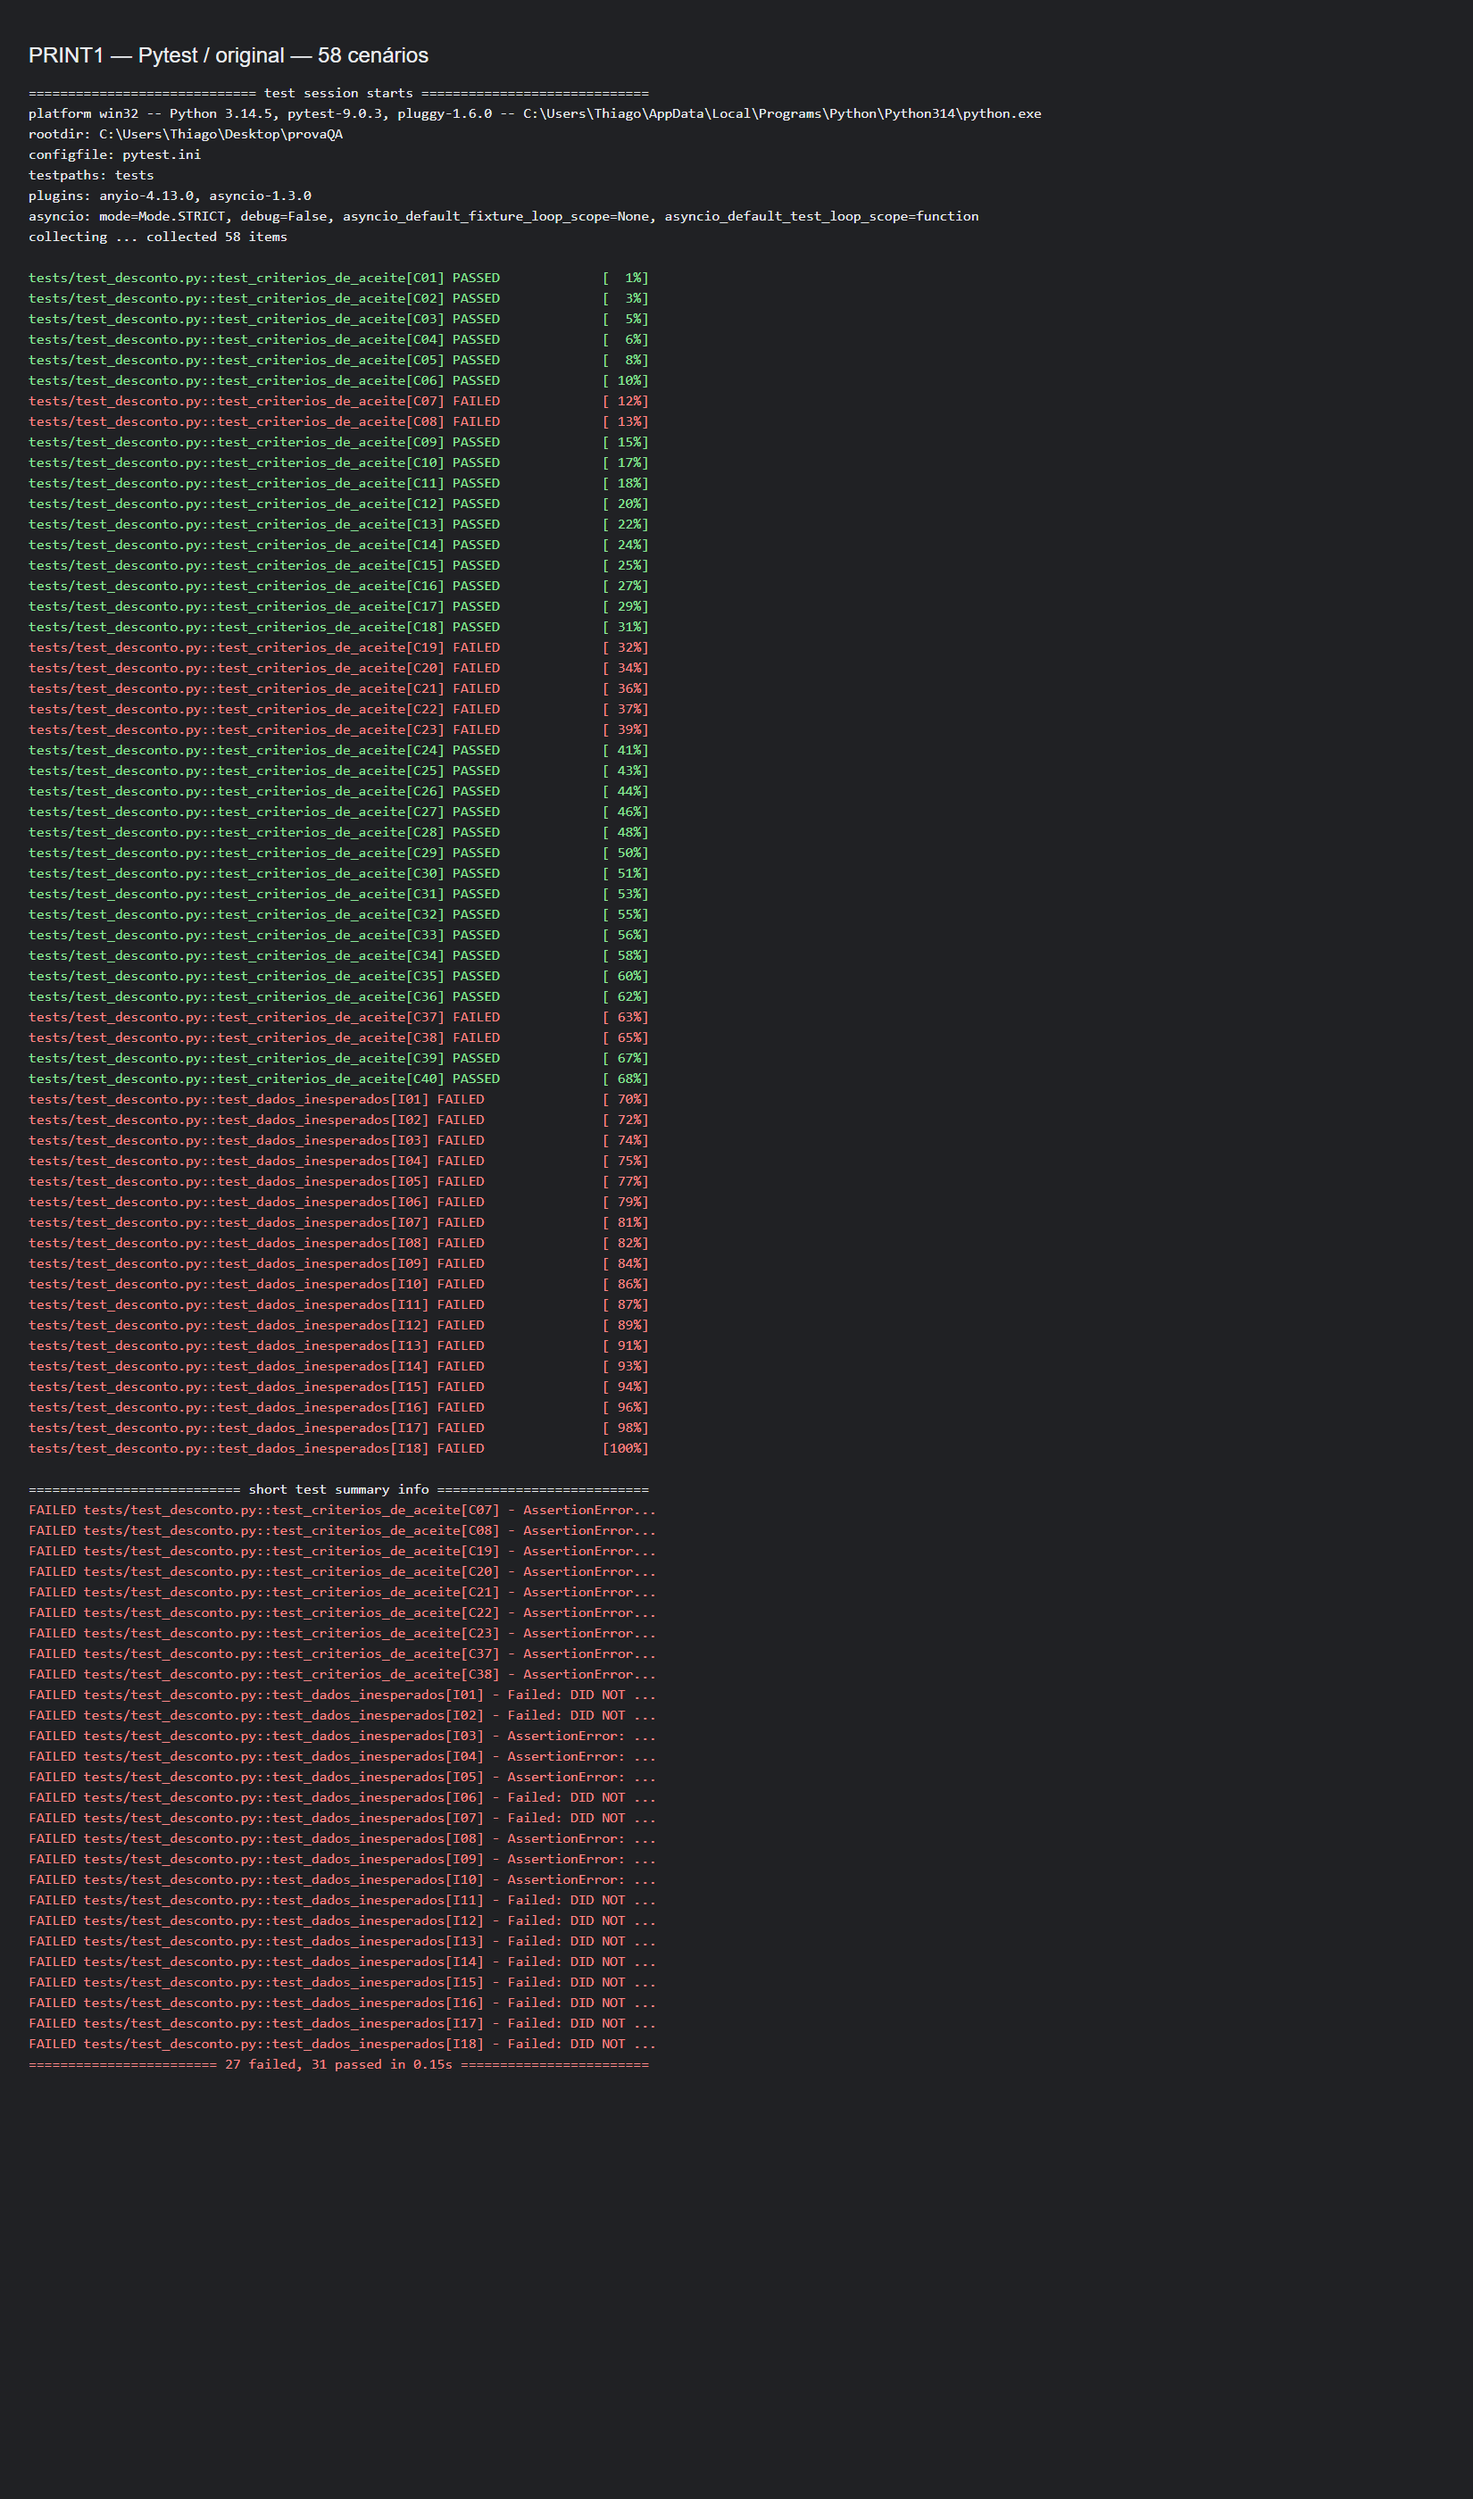
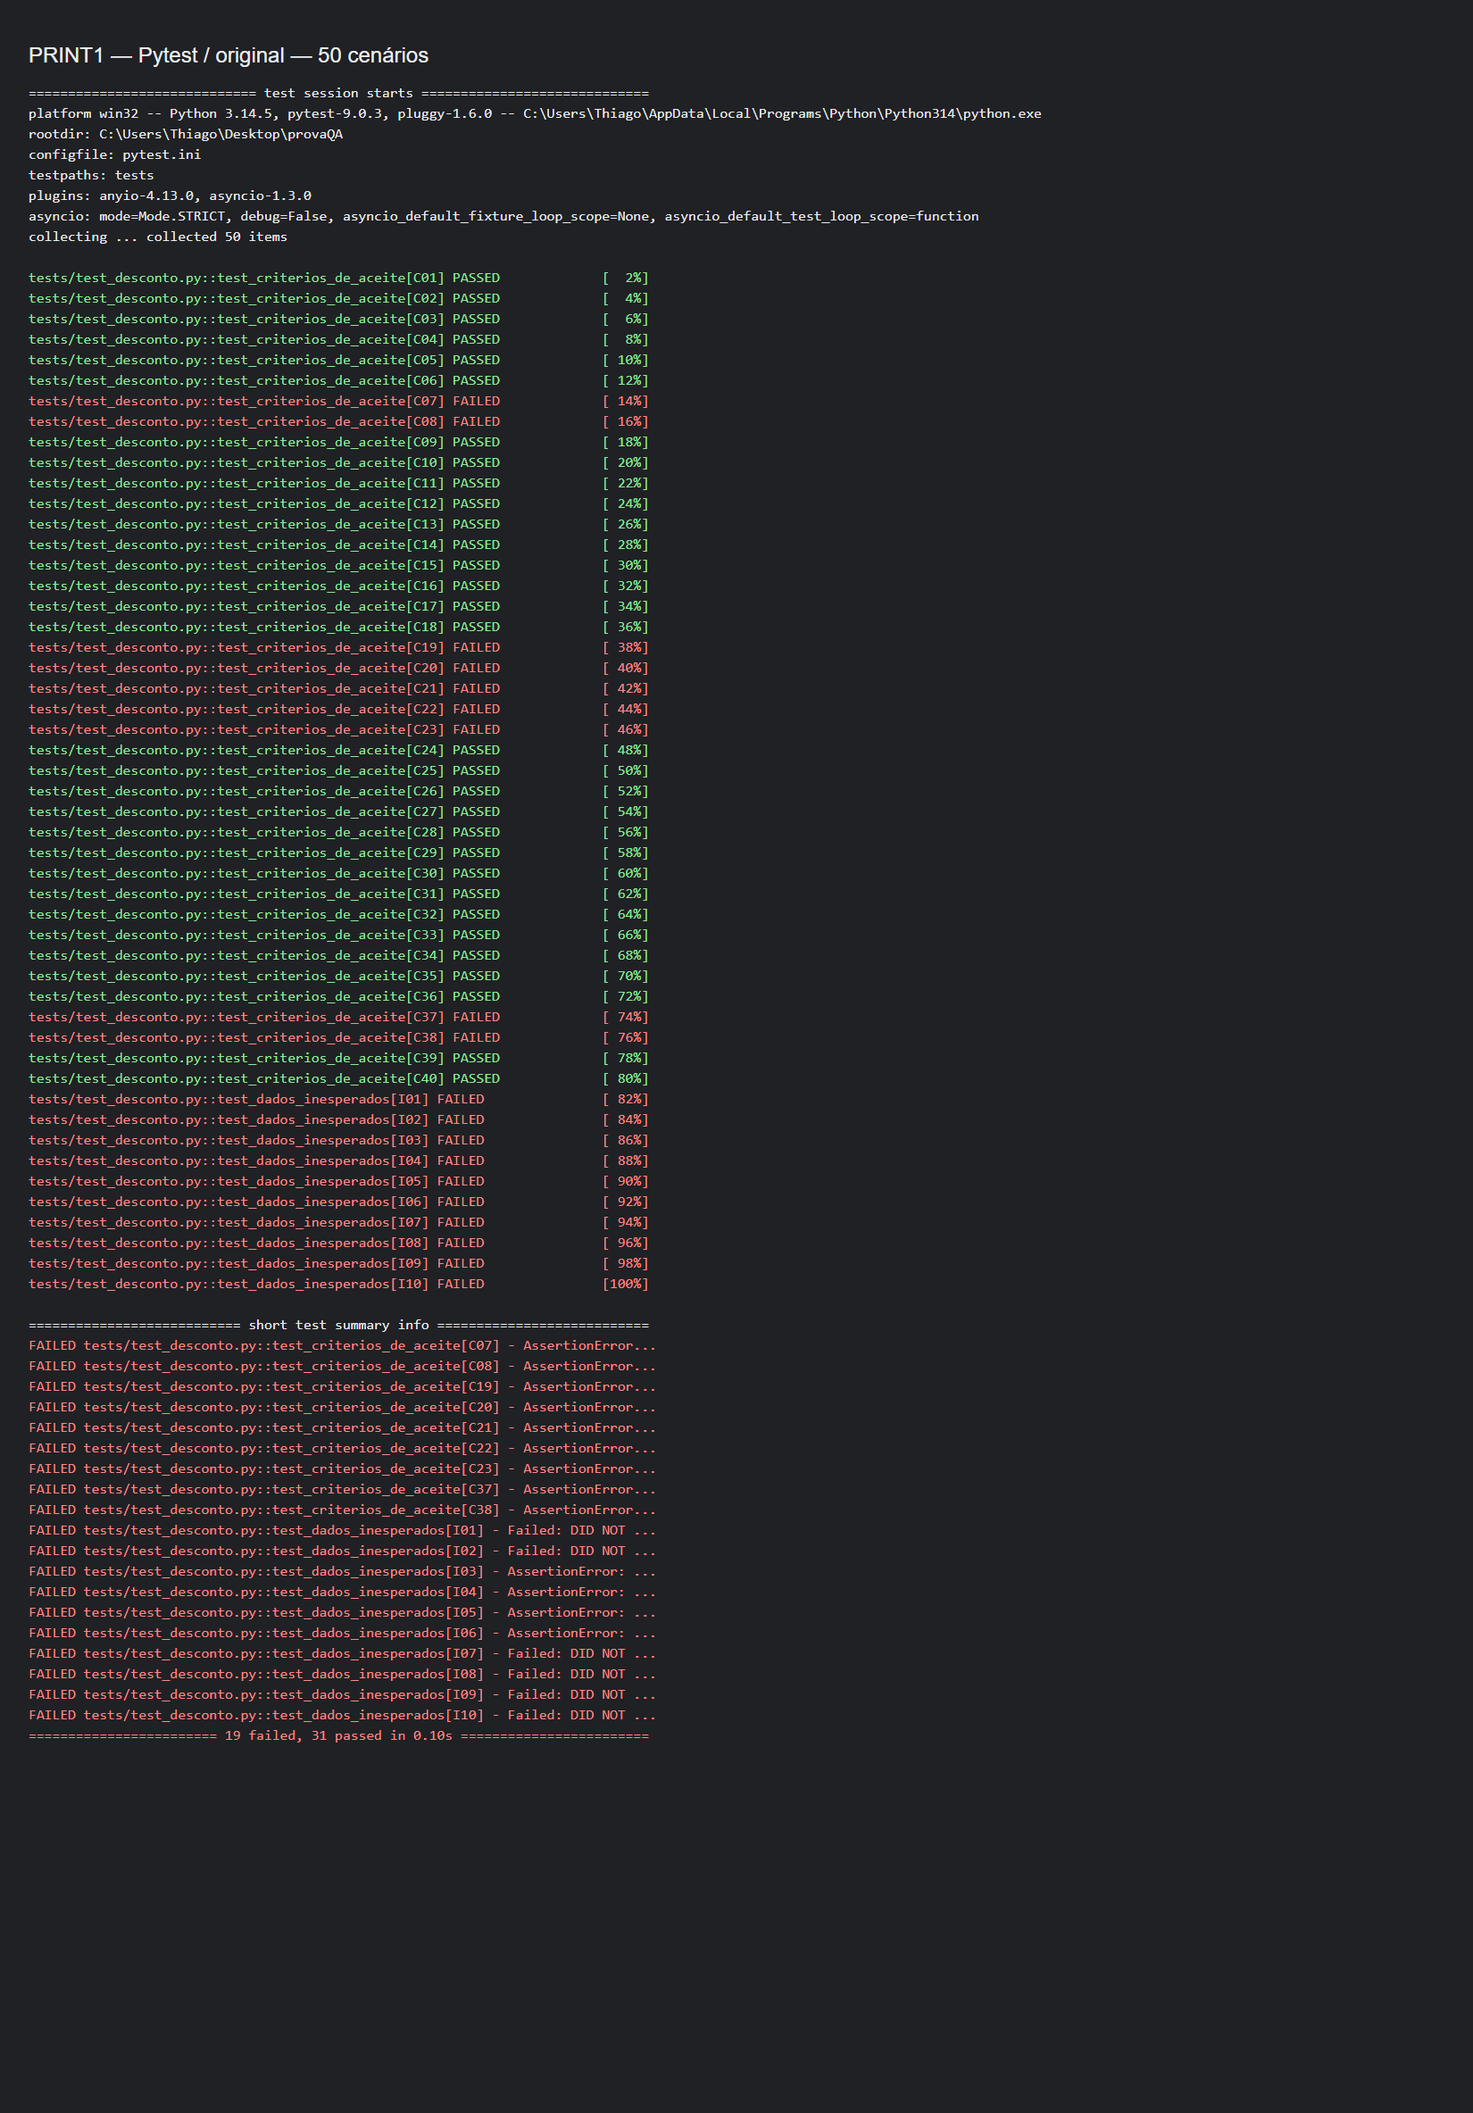
Limita dados inesperados a entradas plausiveis nos campos do usuario

Changed region(s): [[0.0, 0.0, 0.7109, 0.8327]]

diff --git a/tests/test_desconto.py b/tests/test_desconto.py
@@ -57,22 +57,14 @@ def test_criterios_de_aceite(calcular_desconto, cenario, valor_compra, tipo_clie
 CASOS_INVALIDOS = [
     ("I01", -0.01, "COMUM", ValueError, "valor_compra deve ser nao negativo"),
     ("I02", -100, "VIP", ValueError, "valor_compra deve ser nao negativo"),
-    ("I03", None, "COMUM", TypeError, "valor_compra deve ser int ou float"),
+    ("I03", "", "COMUM", TypeError, "valor_compra deve ser int ou float"),
     ("I04", "300", "COMUM", TypeError, "valor_compra deve ser int ou float"),
     ("I05", "abc", "COMUM", TypeError, "valor_compra deve ser int ou float"),
-    ("I06", True, "COMUM", TypeError, "valor_compra deve ser int ou float"),
-    ("I07", False, "VIP", TypeError, "valor_compra deve ser int ou float"),
-    ("I08", [], "COMUM", TypeError, "valor_compra deve ser int ou float"),
-    ("I09", {}, "COMUM", TypeError, "valor_compra deve ser int ou float"),
-    ("I10", 300 + 1j, "COMUM", TypeError, "valor_compra deve ser int ou float"),
-    ("I11", 300, None, TypeError, "tipo_cliente deve ser texto"),
-    ("I12", 300, 123, TypeError, "tipo_cliente deve ser texto"),
-    ("I13", 300, True, TypeError, "tipo_cliente deve ser texto"),
-    ("I14", 300, [], TypeError, "tipo_cliente deve ser texto"),
-    ("I15", 300, {}, TypeError, "tipo_cliente deve ser texto"),
-    ("I16", 300, "", ValueError, "tipo_cliente deve ser COMUM ou VIP"),
-    ("I17", 300, "   ", ValueError, "tipo_cliente deve ser COMUM ou VIP"),
-    ("I18", 300, "PREMIUM", ValueError, "tipo_cliente deve ser COMUM ou VIP"),
+    ("I06", "   ", "VIP", TypeError, "valor_compra deve ser int ou float"),
+    ("I07", 300, "123", ValueError, "tipo_cliente deve ser COMUM ou VIP"),
+    ("I08", 300, "", ValueError, "tipo_cliente deve ser COMUM ou VIP"),
+    ("I09", 300, "   ", ValueError, "tipo_cliente deve ser COMUM ou VIP"),
+    ("I10", 300, "PREMIUM", ValueError, "tipo_cliente deve ser COMUM ou VIP"),
 ]
 
 

diff --git a/desconto.py b/desconto.py
@@ -1,5 +1,5 @@
 def calcular_desconto(valor_compra, tipo_cliente):
-    if isinstance(valor_compra, bool) or not isinstance(valor_compra, (int, float)):
+    if not isinstance(valor_compra, (int, float)):
         raise TypeError("valor_compra deve ser int ou float")
     if valor_compra < 0:
         raise ValueError("valor_compra deve ser nao negativo")

diff --git a/README.md b/README.md
@@ -2,12 +2,12 @@
 
 Entrega: [thiagoplb/provaQA](https://github.com/thiagoplb/provaQA).
 
-A função retorna o desconto em reais. A mesma suíte de 58 testes roda no código original e no corrigido: **27 falhas e 31 sucessos antes; 58 sucessos depois**.
+A função retorna o desconto em reais. A mesma suíte de 50 testes roda no código original e no corrigido: **19 falhas e 31 sucessos antes; 50 sucessos depois**.
 
 ## Preencher o formulário
 
 - Código corrigido: copie [desconto.py](desconto.py).
-- Todos os cenários: copie [CENARIOS_RESUMIDOS.txt](CENARIOS_RESUMIDOS.txt), com os 40 cenários de desconto e os 18 de dados inesperados efetivamente testados.
+- Todos os cenários: copie [CENARIOS_RESUMIDOS.txt](CENARIOS_RESUMIDOS.txt), com os 40 cenários de desconto e os 10 de dados inesperados efetivamente testados.
 - Bugs e escolha dos valores: copie [BUGS_ENCONTRADOS.txt](BUGS_ENCONTRADOS.txt).
 - PRINT1: anexe [PRINT1.png](evidencias/PRINT1.png).
 - PRINT2: anexe [PRINT2.png](evidencias/PRINT2.png).
@@ -25,14 +25,16 @@ A última execução deve falhar: usa os mesmos cenários e resultados esperados
 
 ## Dados inesperados
 
-Como os critérios originais não definiam esses casos, foram adotadas regras adicionais: compras devem ser `int` ou `float`, não negativas; booleanos e conversão automática de texto são rejeitados. Categorias devem ser texto, COMUM ou VIP, ignorando maiúsculas e espaços nas extremidades. Tipos inválidos geram `TypeError`; valores inválidos geram `ValueError`. Os testes verificam a exceção e a mensagem.
+Como os critérios originais não definiam esses casos, foram adotadas regras adicionais: compras devem ser `int` ou `float`, não negativas. Não há conversão automática de texto para número. Categorias devem ser texto, COMUM ou VIP, ignorando maiúsculas e espaços nas extremidades. Tipos inválidos geram `TypeError`; valores inválidos geram `ValueError`. Os testes verificam a exceção e a mensagem.
 
 O arredondamento `round(..., 2)` original foi mantido.
+
+Os dados inesperados testados se limitam a entradas plausíveis nos campos: valores negativos, textos, campos vazios, espaços e categorias inválidas. A função recebe o valor da compra já numérico; a conversão do texto digitado no formulário pertence à interface.
 
 ## Evidências
 
 Os PNGs são capturas no navegador das saídas reais do Pytest. As páginas HTML usadas na captura são temporárias e não fazem parte da entrega.
 
-![Antes: 27 falhas e 31 sucessos](evidencias/PRINT1.png)
+![Antes: 19 falhas e 31 sucessos](evidencias/PRINT1.png)
 
-![Depois: 58 sucessos](evidencias/PRINT2.png)
+![Depois: 50 sucessos](evidencias/PRINT2.png)
